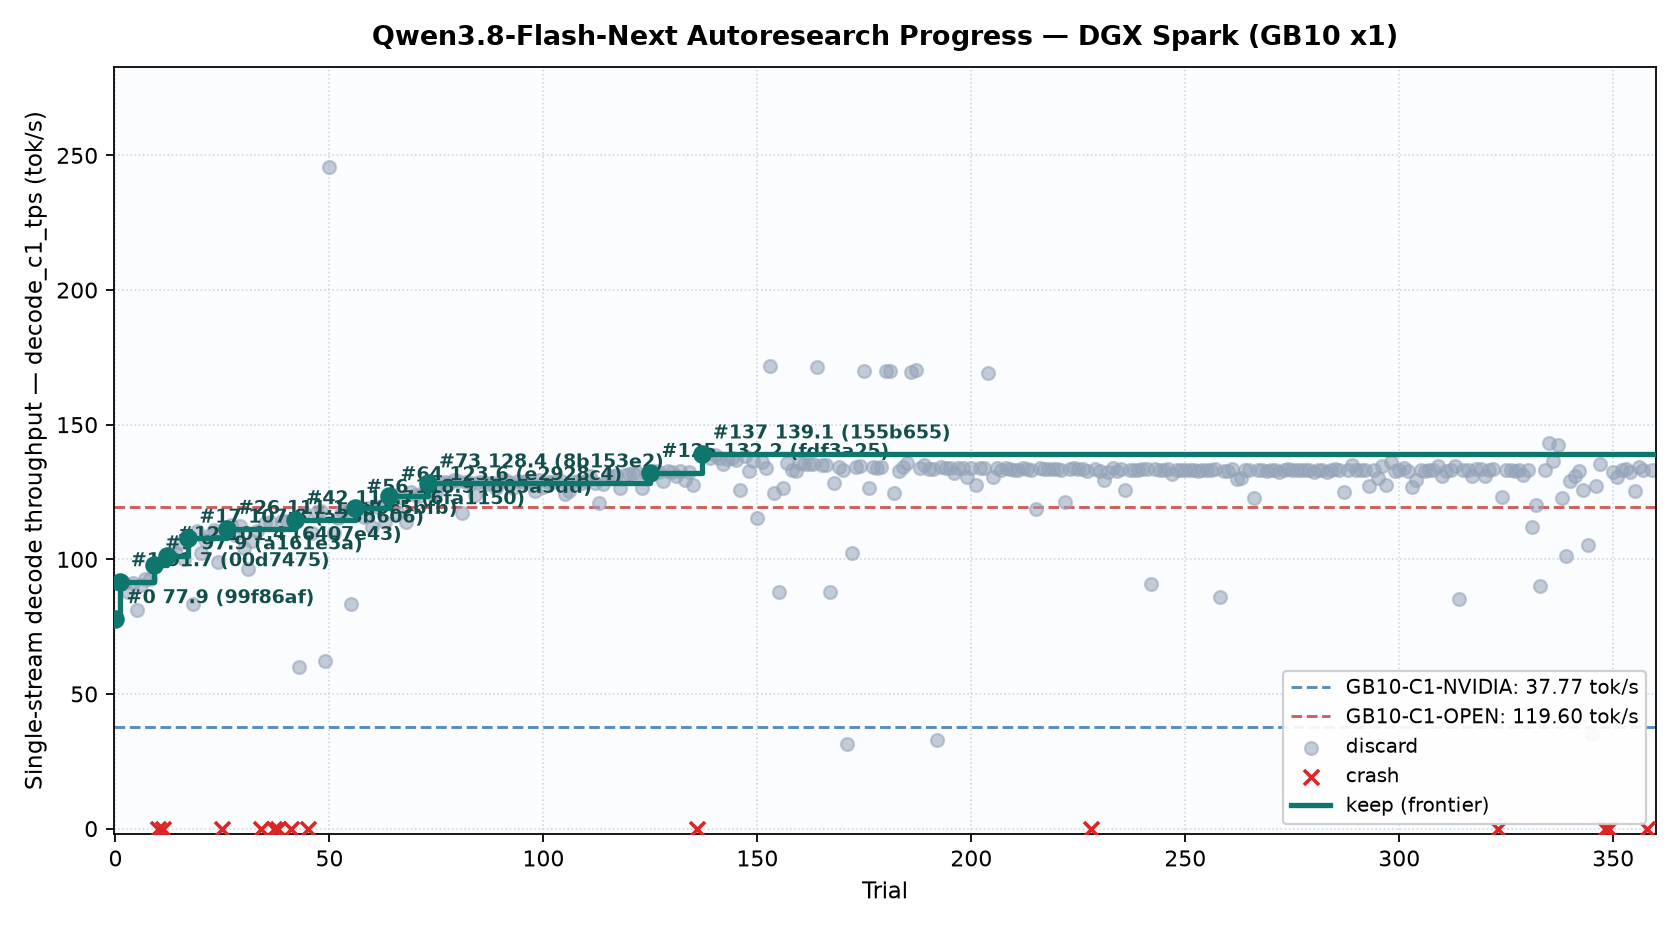
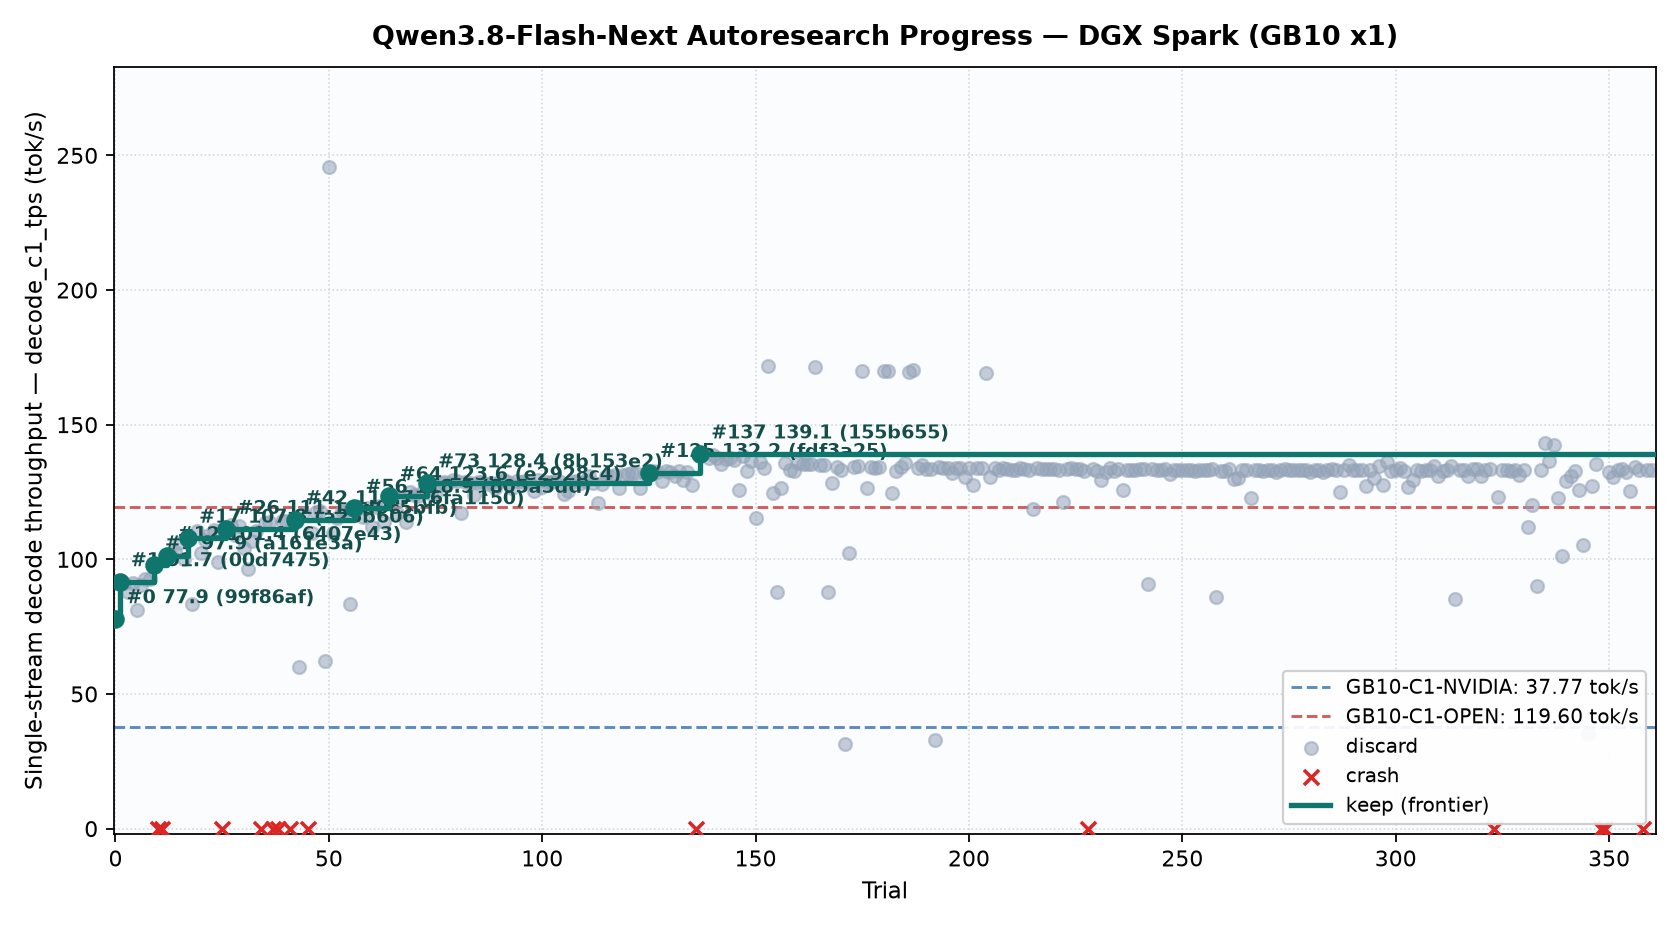
spark trial 360: discard

diff --git a/records/research-log.md b/records/research-log.md
@@ -393,3 +393,4 @@ Deprioritized: **3-bit expert weights** (Hibana +43% but GPQA -0.3, LCB -2.3; on
 | 2026-11-23 09:29 | 357 (new stack) | <https://github.com/ashhart/TensorFold/blob/v1.2.9/zig/kernels/cuda/nvfp4_experts.cu> and <https://github.com/vllm-project/vllm/pull/69294> | Checked releases, commits and PRs across six engines. Deferred vllm-project/vllm/pull/69294 to isolate this test. | Retain lossless routed-expert scale decoding. When a four-scale group contains exceptions, perform one binary search and read consecutive escape records in key order. This removes repeated searches within the group. Previous trial 356: discard, C1 134.31, C8 240.58. |
 | 2026-11-23 09:38 | 358 (new stack) | <https://huggingface.co/diffbot/Qwen3.8-Flash-Next-FP4-Local-DGX-Spark/tree/38b78560cc7d4b91287c9d5bb49da728e16f46eb> and <https://github.com/vllm-project/vllm/pull/69294> | Checked releases, commits and PRs across six engines. Deferred vllm-project/vllm/pull/69294 to isolate this test. | Trial 313 transferred the trained hidden projection directly. Test its learned row directions with the row norms of the original NVFP4 checkpoint. Only the proposal layer changes; all drafted tokens still pass through the target verifier. Previous trial 357: discard, C1 133.19, C8 240.83. |
 | 2026-11-23 09:39 | 359 (new stack) | <https://huggingface.co/diffbot/Qwen3.8-Flash-Next-FP4-Local-DGX-Spark/tree/38b78560cc7d4b91287c9d5bb49da728e16f46eb> and <https://github.com/vllm-project/vllm/pull/69294> | Checked releases, commits and PRs across six engines. Deferred vllm-project/vllm/pull/69294 to isolate this test. | Retry the row-norm transfer in trial 358. Its preparation failed because the host Python lacks NumPy. Use standard-library BF16 decoding, row energy accumulation and round-to-nearest-even encoding for the same hidden projection. Keep the trained payload pinned by checksum. Previous trial 358: crash, C1 0, C8 0. |
+| 2026-11-23 09:44 | 360 (new stack) | <https://github.com/ashhart/TensorFold/blob/v1.2.9/zig/kernels/cuda/flashnext_batch.cu> and <https://github.com/vllm-project/vllm/pull/69294> | Checked releases, commits and PRs across six engines. Deferred vllm-project/vllm/pull/69294 to isolate this test. | Track the two largest logits per thread during the existing scan. When only its winner can clear the shortlist lower bound, publish that token directly and skip the second read of its vocabulary slice. Preserve tie handling and the overflow path. Previous trial 359: discard, C1 133.01, C8 239.15. |
